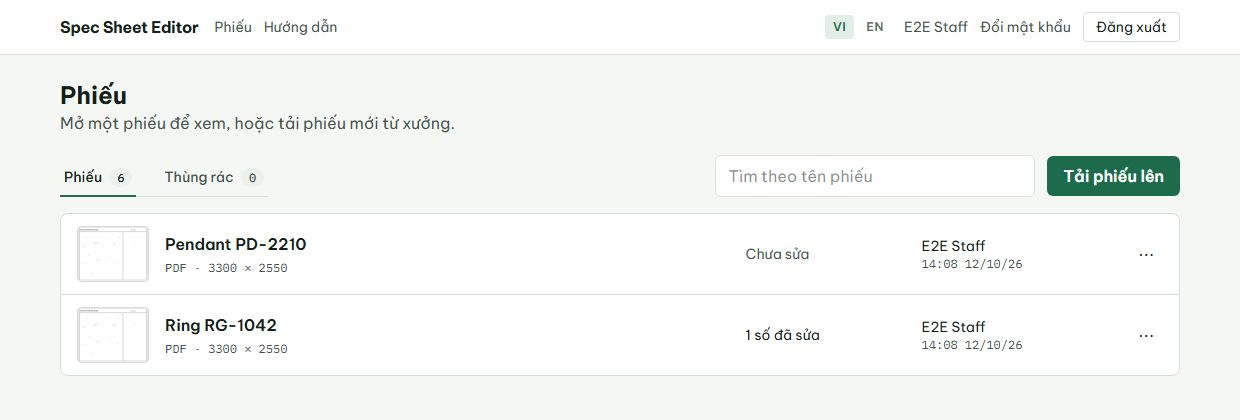
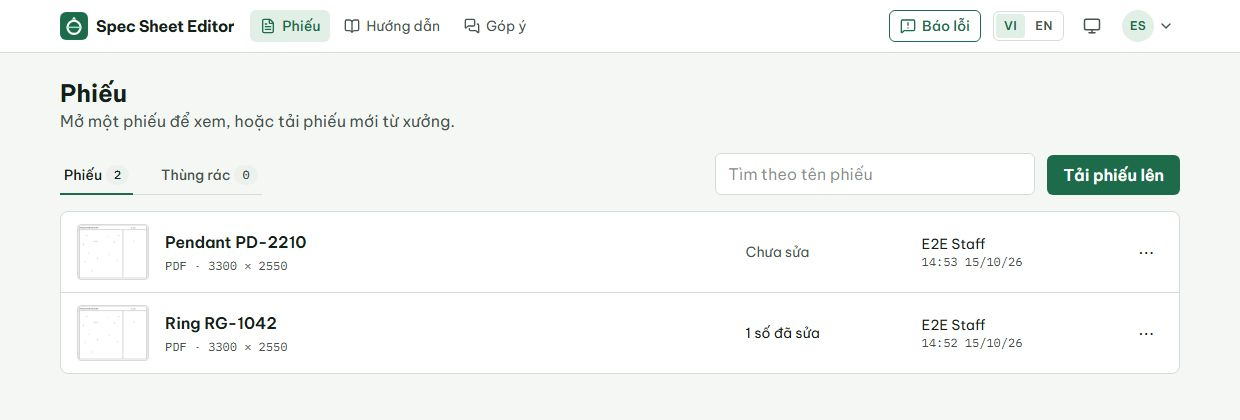
docs(guide): screenshots captured again with the new header, and the capture waits for the users search to filter

diff --git a/e2e/guide/shots.capture.ts b/e2e/guide/shots.capture.ts
@@ -356,6 +356,9 @@ for (const locale of LOCALES) {
         await page.getByRole("searchbox", { name: /Tìm theo tên hoặc email|Search by name or email/ }).fill(email);
         const row = page.getByRole("row").filter({ hasText: email });
         await expect(row).toHaveCount(1);
+        // The search applies 300 ms after typing: wait until the list holds that one account, or the picture
+        // (and its pagination footer) would still show the whole list.
+        await expect(page.locator("main tbody tr")).toHaveCount(1);
         await page.mouse.click(1000, 700); // takes focus off the search box
         await shots.take(page, "admin-users", [
           new Above(button(page, /^(Thêm người dùng|Add user)$/)),
